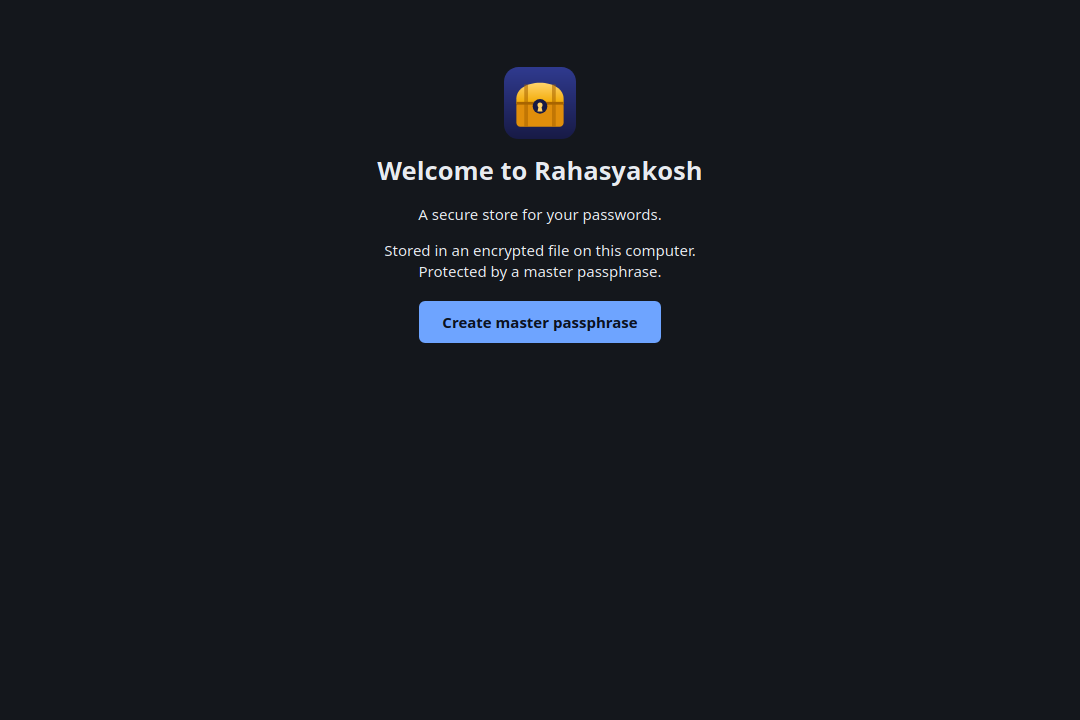
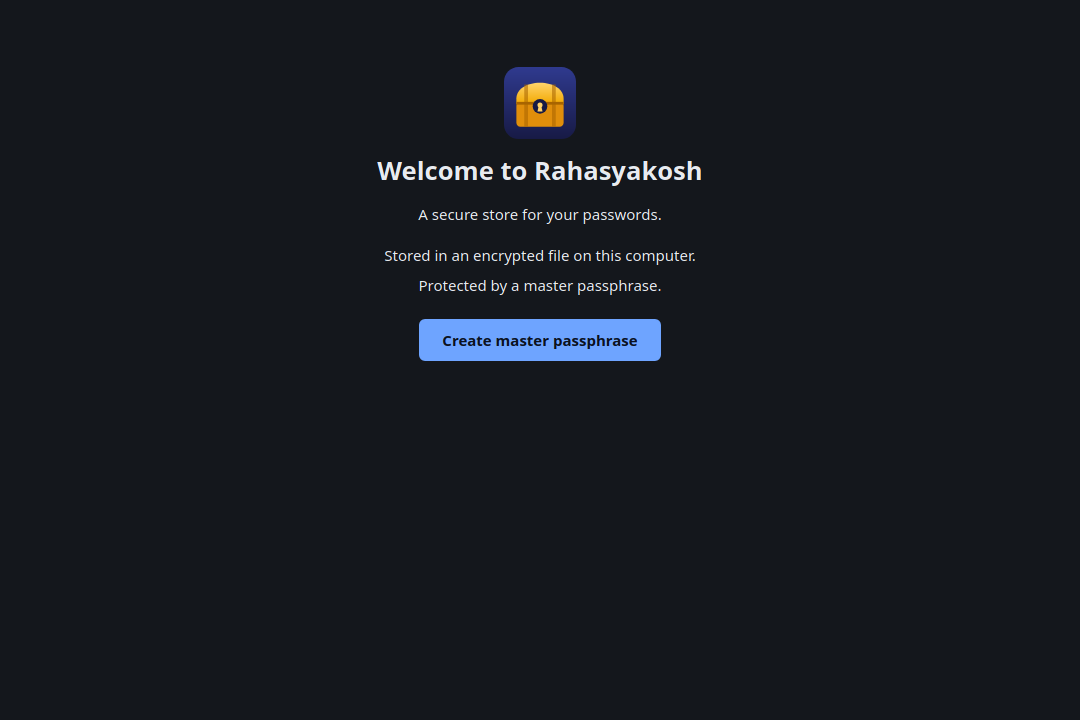
Desktop: more space between the two welcome-page description lines

Changed region(s): [[0.3361, 0.3361, 0.6417, 0.5194]]

diff --git a/apps/desktop/src/lib.rs b/apps/desktop/src/lib.rs
@@ -328,7 +328,7 @@ fn Setup() -> Element {
                 Logo {}
                 h1 { "Welcome to Rahasyakosh" }
                 p { class: "tagline", "A secure store for your passwords." }
-                p { class: "tagline", "Stored in an encrypted file on this computer." br {} "Protected by a master passphrase." }
+                p { class: "tagline spaced", "Stored in an encrypted file on this computer." br {} "Protected by a master passphrase." }
                 button { class: "primary", onclick: move |_| started.set(true), "Create master passphrase" }
             }
         };

diff --git a/apps/desktop/src/style.rs b/apps/desktop/src/style.rs
@@ -48,6 +48,7 @@ label.check { font-weight: 400; margin-top: 1rem; }
 .centre .logo { display: block; margin-bottom: .8rem; }
 .landing .logo { margin-left: auto; margin-right: auto; }
 .landing h1, .landing .tagline { text-align: center; }
+.landing .spaced { line-height: 2; }
 .landing form { width: 20rem; max-width: 100%; margin: 0 auto; }
 .landing .primary { display: block; margin-left: auto; margin-right: auto; }
 .centre h1 { font-size: 1.6rem; margin-bottom: .6rem; }
